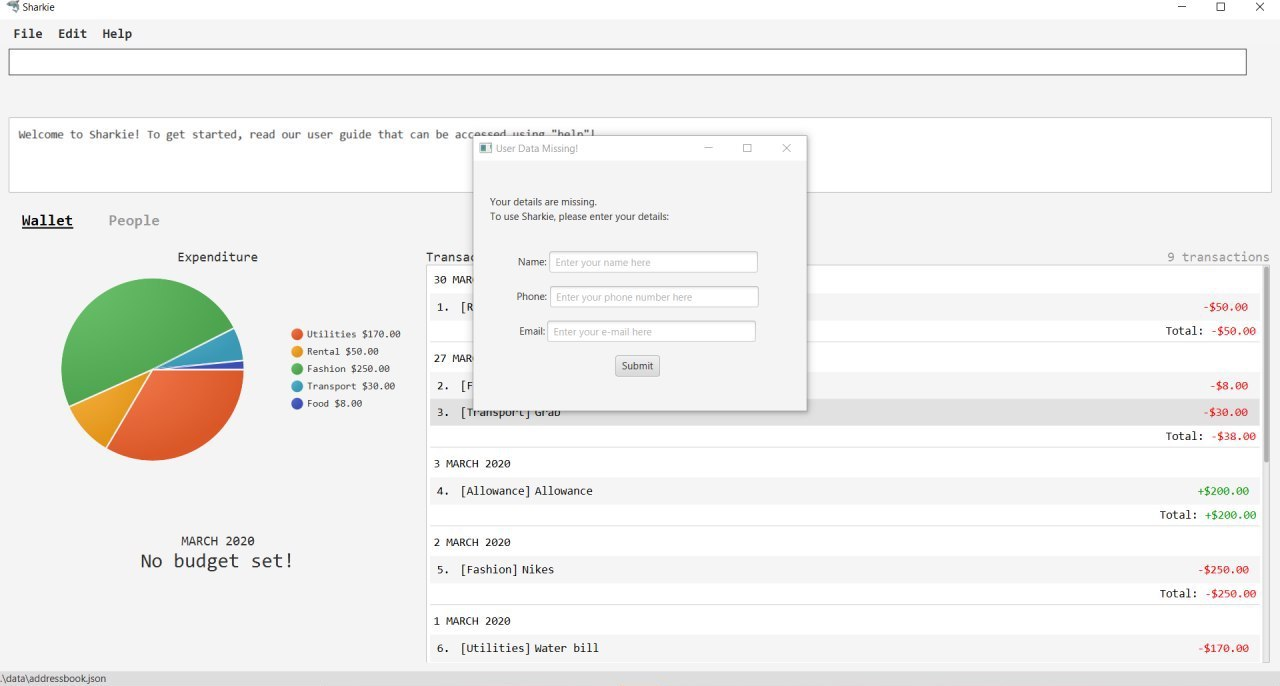
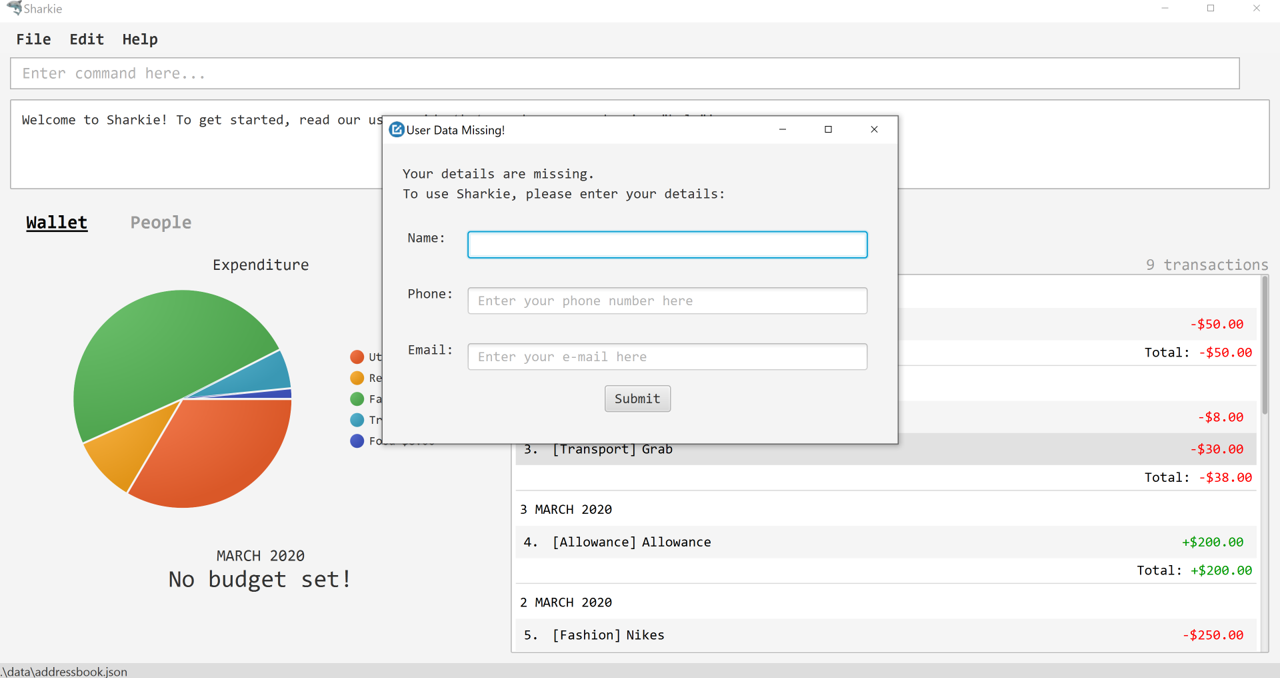
Improve EditUserDataWindow GUI

diff --git a/src/main/java/seedu/address/ui/EnterUserDataWindow.java b/src/main/java/seedu/address/ui/EnterUserDataWindow.java
@@ -23,7 +23,8 @@ public class EnterUserDataWindow extends UiPart<Stage> {
     public static final String ERROR_STYLE_CLASS = "error";
     public static final String MISSING_DATA_MESSAGE = "Your details are missing. \nTo use Sharkie, "
             + "please enter your details: ";
-    public static final String ERROR_MESSAGE = "The details you keyed in are invalid. \nKindly re-enter your details: ";
+    public static final String ERROR_MESSAGE = "The details you keyed in are invalid. \n"
+            + "Kindly re-enter your details: \n";
 
     private static final Logger logger = LogsCenter.getLogger(EnterUserDataWindow.class);
     private static final String FXML = "EnterUserDataWindow.fxml";
@@ -34,7 +35,13 @@ public class EnterUserDataWindow extends UiPart<Stage> {
     protected Label instructionMessage;
 
     @FXML
-    private Label errorMessage;
+    private Label errorMessageName;
+
+    @FXML
+    private Label errorMessagePhone;
+
+    @FXML
+    private Label errorMessageEmail;
 
     @FXML
     private TextField userNameTextField;
@@ -105,6 +112,7 @@ public class EnterUserDataWindow extends UiPart<Stage> {
         logger.fine("Showing the window for user data input.");
         getRoot().show();
         getRoot().centerOnScreen();
+        errorMessageName.setText("");
     }
 
     /**
@@ -155,7 +163,9 @@ public class EnterUserDataWindow extends UiPart<Stage> {
      */
     public void setStyleToIndicateInputFailure() {
         instructionMessage.setText(ERROR_MESSAGE);
-        errorMessage.setText("");
+        errorMessageName.setText("");
+        errorMessagePhone.setText("");
+        errorMessageEmail.setText("");
 
         ObservableList<String> styleClassName = userNameTextField.getStyleClass();
         ObservableList<String> styleClassPhone = userPhoneTextField.getStyleClass();
@@ -163,24 +173,21 @@ public class EnterUserDataWindow extends UiPart<Stage> {
 
         if (!Name.isValidName(userNameTextField.getText())) {
             styleClassName.add(ERROR_STYLE_CLASS);
-            errorMessage.setText(errorMessage.getText()
-                    + "Your name should not be empty or start with a whitespace!\n");
+            errorMessageName.setText("Your name should not be empty or start with a whitespace!\n");
             userNameTextField.setText("");
             userNameTextField.setPromptText("Invalid name!");
         }
 
         if (!Phone.isValidPhone(userPhoneTextField.getText())) {
             styleClassPhone.add(ERROR_STYLE_CLASS);
-            errorMessage.setText(errorMessage.getText()
-                    + "Your phone number should consist of 3 or more digits!\n");
+            errorMessagePhone.setText("Your phone number should consist of 3 or more digits!\n");
             userPhoneTextField.setText("");
             userPhoneTextField.setPromptText("Invalid phone number!");
         }
 
         if (!Email.isValidEmail(userEmailTextField.getText())) {
             styleClassEmail.add(ERROR_STYLE_CLASS);
-            errorMessage.setText(errorMessage.getText()
-                    + "Your email should be a valid email!\n");
+            errorMessageEmail.setText("Your email should be a valid email!\n");
             userEmailTextField.setText("");
             userEmailTextField.setPromptText("Invalid address!");
         }
